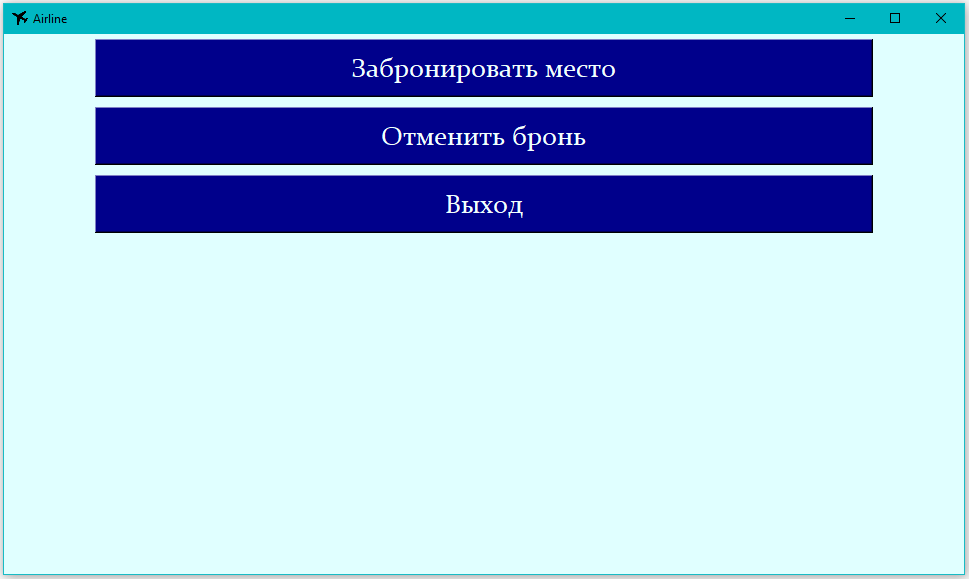
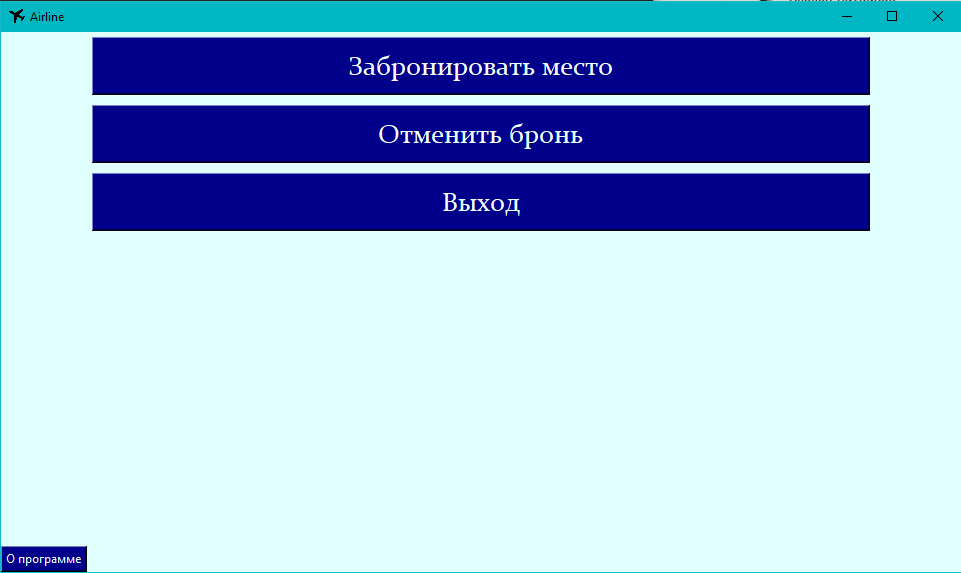
Add About

Changed region(s): [[0.0, 0.0, 1.0, 1.0]]

diff --git a/main.py b/main.py
@@ -12,7 +12,7 @@ Run the main program:
 
 """
 
-
+import about_box
 from global_objects import *
 from reservation import res_confirm
 from cancel import cancel_confirm
@@ -50,6 +50,13 @@ def main():
                               foreground='azure',
                               command=menu.destroy)
     btn_exit.pack(pady=5)
+
+    about = tkinter.Button(menu,
+                           text="О программе",
+                           background='darkblue',
+                           foreground='azure',
+                           command=about_box.main)
+    about.pack(expand=1, anchor=tkinter.SW)
 
     menu.mainloop()
 

diff --git a/cancel.py b/cancel.py
@@ -52,6 +52,7 @@ def cancel_confirm():
                  f'{i.place}. Место {i.num}. Стоимость билета '
                  f'{i.price:.2f} руб.',
             value=n,
+            justify=tkinter.LEFT,
             variable=selected,
             background='lightcyan'))
 

diff --git a/README.md b/README.md
@@ -21,7 +21,10 @@
 ***
 Вернёмся в главное меню. При нажатии на кнопку "Отмена брони" появится
 список всех билетов. Будет предложен выбор билета для отмены <br>
-![Главное меню](Images/screen5.png "Главное меню")
+![Отмена брони](Images/screen5.png "Отмена брони")
 ***
 Если забронированых мест нет, появится сообщение <br>
-![Главное меню](Images/screen6.png "Главное меню")
+![Мест нет](Images/screen6.png "Мест нет")
+***
+При нажатии кнопки "О программе" или запуске файла about_box появится окно <br>
+![О программе](Images/screen7.png "О программе")
